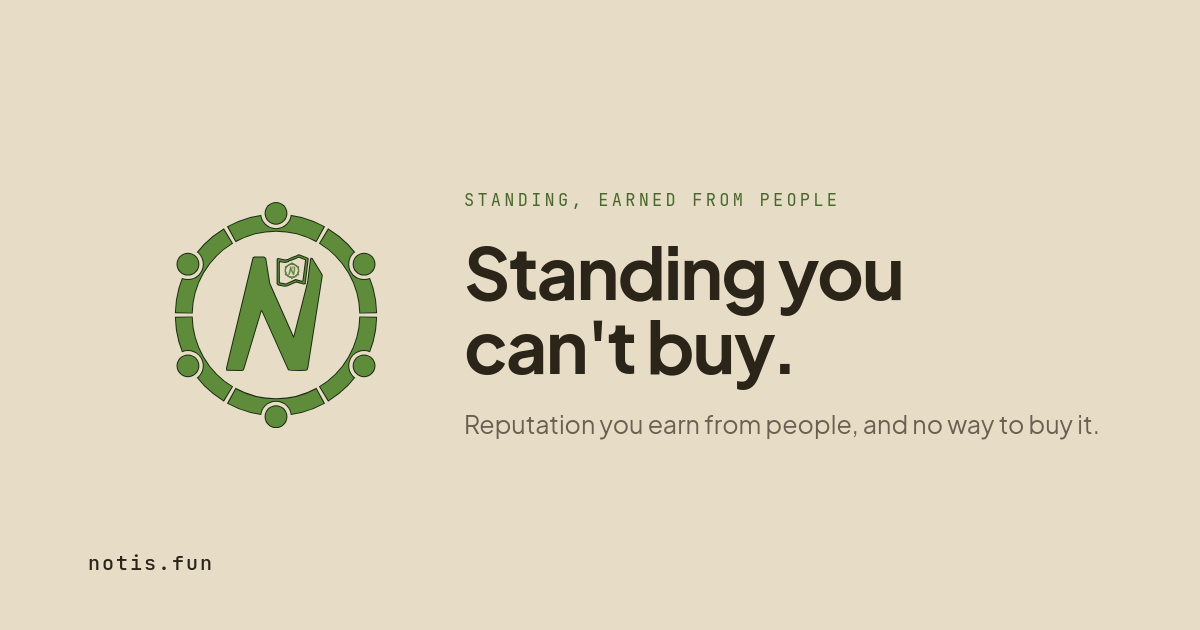
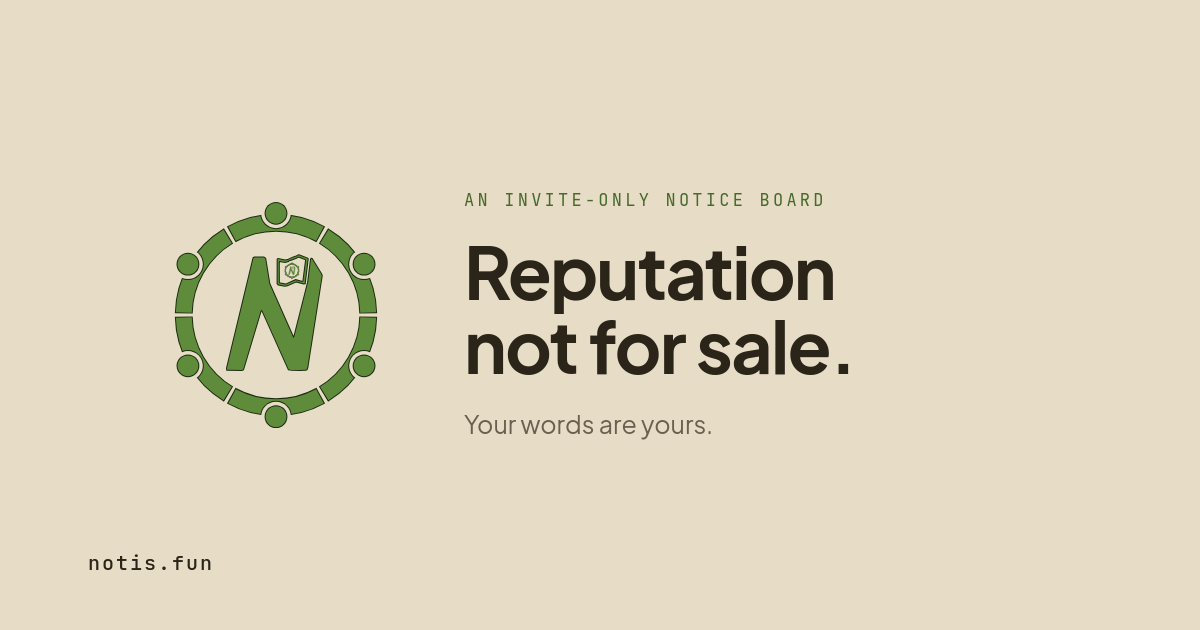
docs(landing): the share card shows "Reputation not for sale." beside the mark
og.html carries the new kicker, headline and line beneath it; og.png is
its 1200x630 render in headless Firefox.

Changed region(s): [[0.37, 0.3921, 0.7708, 0.6333], [0.37, 0.6635, 0.925, 0.6937], [0.37, 0.3016, 0.7092, 0.3317]]

diff --git a/docs/landing/og.html b/docs/landing/og.html
@@ -115,9 +115,9 @@
     <use href="#mark" xlink:href="#mark"/></svg>
 </div>
 <div class="txt">
-  <div class="kick">standing, earned from people</div>
-  <h1>Standing you<br>can't buy.</h1>
-  <p>Reputation you earn from people, and no way to buy it.</p>
+  <div class="kick">an invite-only notice board</div>
+  <h1>Reputation<br>not for sale.</h1>
+  <p>Your words are yours.</p>
 </div>
 <div class="foot"><b>notis.fun</b></div>
 
